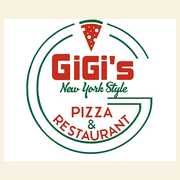
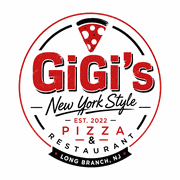
Stop telling Long Branch customers things about their money that aren't true
The last of the Sea Bright fixes, ported back. All four are on the rare paths
that only fire when something has already gone wrong — which is exactly when
being wrong about money costs the most.

The uncertain-payment branch returns paid:false with hand-written copy
PRECISELY because Clover may or may not hold the capture. The confirmation
screen ignored it and asserted "Your payment went through", above a ready
time for food nobody was making. It now shows the server's own words, hides
the ready time when nothing reached the kitchen, and keeps the cart — which
preserves the idempotency key that makes retrying safe. Clearing it forced a
rebuild, and a rebuilt cart mints a new key the replay guard can't match.

A paid_unrouted replay fell through to the plain-duplicate branch and returned
a clean confirmation. Both ladders now treat it like 'charged' and page staff.
They also stop claiming a confirmed capture for it: paid_unrouted can come
from the UNCERTAIN branch, so the message says we couldn't confirm rather than
that the payment went through. All three writers are card-only, so no pickup
order can reach it.

A failed pay-at-pickup POS post wrote status='failed' but never released the
idempotency key, unlike both card paths. reserveOrder is ON CONFLICT DO
NOTHING with no TTL, so one transient Clover blip permanently 409'd that cart
with "This order is already being placed" — which was false.

empty_order returned no message, so the banner rendered the raw key. Not
[…]

diff --git a/api/order/create.ts b/api/order/create.ts
@@ -266,9 +266,21 @@ export default async function handler(req: VercelRequest, res: VercelResponse) {
   // still a draft, so it is in no POS and no ticket printed. Reporting that as a
   // finished order hands the customer a confirmation for food nobody is making,
   // so it takes the routing-issue path and pages staff instead.
-  if (prior?.status === "charged") {
-    await alertStaff(`PAID WEB ORDER NOT FIRED — retry seen for Clover order ${prior.cloverOrderId ?? "?"} charge ${prior.chargeId ?? "?"}; open it in the POS.`);
-    res.status(200).json({ ok: true, orderId: prior.cloverOrderId, paid: true, chargeId: prior.chargeId, routingIssue: true, message: "Your payment went through, but please call the store to confirm your order was received." });
+  if (prior?.status === "charged" || prior?.status === "paid_unrouted") {
+    await alertStaff(`PAID WEB ORDER NOT FIRED — retry seen for Clover order ${prior?.cloverOrderId ?? "?"} charge ${prior?.chargeId ?? "?"}; open it in the POS.`);
+    // "charged" is a confirmed capture. "paid_unrouted" can come from the UNCERTAIN
+    // branch, where Clover may or may not hold the money — so don't assert it went
+    // through. Either way the instruction is the same: call before re-ordering.
+    res.status(200).json({
+      ok: true,
+      orderId: prior?.cloverOrderId,
+      paid: true,
+      chargeId: prior?.chargeId,
+      routingIssue: true,
+      message: prior?.status === "charged"
+        ? "Your payment went through, but please call the store to confirm your order was received."
+        : "We couldn't confirm whether your last attempt went through. Please call the store to check before ordering again, so you aren't charged twice.",
+    });
     return;
   }
   if (prior?.cloverOrderId) {
@@ -342,7 +354,14 @@ export default async function handler(req: VercelRequest, res: VercelResponse) {
   }
   const totals = computeTotals(lines, tipCents, fee, discount);
   if (totals.total <= 0) {
-    res.status(400).json({ error: "empty_order" });
+    // Reachable without an empty cart: a free-pie promo zero-prices the Plain Pie and tax is
+    // computed after the discount, so a cart holding only the free pie totals exactly $0.00.
+    // With no message the client rendered the raw key — the banner read "empty_order".
+    res.status(400).json({
+      error: "empty_order",
+      message:
+        "Your total comes to $0.00 — add anything else to the order, or just come in and pick up your free pie.",
+    });
     return;
   }
   // Marks the code used AFTER the order lands (fired to the kitchen, or paid). Conditional
@@ -394,9 +413,21 @@ export default async function handler(req: VercelRequest, res: VercelResponse) {
     reservedId = reservation.id;
   } else if (reservation.reserved === false) {
     const ex = reservation.existing;
-    if (ex.status === "charged") {
+    if (ex.status === "charged" || ex.status === "paid_unrouted") {
       await alertStaff(`PAID WEB ORDER NOT FIRED — retry seen for Clover order ${ex.cloverOrderId ?? "?"} charge ${ex.chargeId ?? "?"}; open it in the POS.`);
-      res.status(200).json({ ok: true, orderId: ex.cloverOrderId, paid: true, chargeId: ex.chargeId, routingIssue: true, message: "Your payment went through, but please call the store to confirm your order was received." });
+      // "charged" is a confirmed capture. "paid_unrouted" can come from the UNCERTAIN
+      // branch, where Clover may or may not hold the money — so don't assert it went
+      // through. Either way the instruction is the same: call before re-ordering.
+      res.status(200).json({
+        ok: true,
+        orderId: ex.cloverOrderId,
+        paid: true,
+        chargeId: ex.chargeId,
+        routingIssue: true,
+        message: ex.status === "charged"
+          ? "Your payment went through, but please call the store to confirm your order was received."
+          : "We couldn't confirm whether your last attempt went through. Please call the store to check before ordering again, so you aren't charged twice.",
+      });
       return;
     }
     if (ex.cloverOrderId) {
@@ -613,7 +644,14 @@ export default async function handler(req: VercelRequest, res: VercelResponse) {
       res.status(200).json({ ok: true, paid: true, chargeId, routingIssue: true, message: "Your payment went through, but please call the store to confirm your order was received." });
       return;
     }
-    if (reservedId != null) await updateOrder(reservedId, { status: "failed", note });
+    if (reservedId != null) {
+      await updateOrder(reservedId, { status: "failed", note });
+      // Release the key as both card paths do. reserveOrder is ON CONFLICT DO NOTHING with
+      // no TTL and no cleanup job, so without this the dead row blocked every retry of the
+      // same cart forever: a transient Clover blip became a permanent 409 ("already being
+      // placed", which is false). releaseOrder no-ops if a charge or POS order did land.
+      await releaseOrder(reservedId);
+    }
     res.status(502).json({ error: "order_routing_failed", message: "We couldn't send your order to the kitchen. Please call the store to order." });
   }
 }

diff --git a/src/ordering/Checkout.tsx b/src/ordering/Checkout.tsx
@@ -32,7 +32,7 @@ const APPLE_PAY_SHEET_MS = 20_000;
  *  finishes far inside it. It exists only to rescue a connection that stalls with no response. */
 const ORDER_TIMEOUT_MS = 45_000;
 
-type Confirmation = { orderId?: string; paid: boolean; cash: boolean; total: number; discount?: number; fulfillment: Fulfillment; routingIssue?: boolean; units: number; vipEligible?: boolean };
+type Confirmation = { orderId?: string; paid: boolean; cash: boolean; total: number; discount?: number; fulfillment: Fulfillment; routingIssue?: boolean; units: number; vipEligible?: boolean; message?: string };
 
 export function Checkout({ onClose }: { onClose: () => void }) {
   const cart = useCart();
@@ -322,8 +322,14 @@ export function Checkout({ onClose }: { onClose: () => void }) {
         fulfillment,
         routingIssue: data.routingIssue,
         vipEligible: data.vipEligible !== false,
+        // The server hand-writes this when it CANNOT vouch for the payment. Carry it through
+        // and show it verbatim rather than the screen's own cheerier wording.
+        message: typeof data.message === "string" ? data.message : undefined,
       });
-      cart.clear();
+      // Keep the cart when the payment is unconfirmed. Clearing it forces a rebuild, and the
+      // idempotency key is memoized on cart contents — a rebuilt cart mints a new key, so the
+      // server's replay guard can't recognise the retry and the customer really is charged twice.
+      if (!(data.routingIssue && !data.paid)) cart.clear();
     } catch (e) {
       // Retrying after a stall is SAFE and is the right advice: the idempotency key is memoized
       // on the cart contents, and the server replays a prior result ahead of both the charge and
@@ -448,11 +454,15 @@ export function Checkout({ onClose }: { onClose: () => void }) {
               </p>
             )}
           </div>
-          <div className="rounded-2xl border-2 border-[var(--color-brand-red)]/25 bg-[var(--color-brand-red)]/8 px-4 py-3.5">
-            <p className="text-base font-bold text-[var(--color-ink)]">
-              ⏱ {readyMessage(confirmed.units, confirmed.fulfillment)}
-            </p>
-          </div>
+          {/* A routing issue means nothing reached the kitchen, so there is no ready time to
+              promise. Showing one sends the customer in for food nobody started. */}
+          {!confirmed.routingIssue && (
+            <div className="rounded-2xl border-2 border-[var(--color-brand-red)]/25 bg-[var(--color-brand-red)]/8 px-4 py-3.5">
+              <p className="text-base font-bold text-[var(--color-ink)]">
+                ⏱ {readyMessage(confirmed.units, confirmed.fulfillment)}
+              </p>
+            </div>
+          )}
           <div className="rounded-2xl bg-white p-4 text-sm shadow-[var(--shadow-sm)]">
             {confirmed.discount ? (
               <div className="mb-1 flex justify-between"><span className="text-[var(--color-ink-soft)]">VIP free pie</span><span className="font-semibold">−{money(confirmed.discount)}</span></div>
@@ -462,7 +472,12 @@ export function Checkout({ onClose }: { onClose: () => void }) {
           </div>
           {confirmed.routingIssue && (
             <p className="rounded-xl bg-[var(--color-brand-red)]/8 px-4 py-3 text-sm text-[var(--color-ink)]">
-              Your payment went through. Please call <a className="font-semibold text-[var(--color-brand-red)]" href={`tel:${LOCATION.phoneTel}`}>{LOCATION.phone}</a> to confirm we received it.
+              {/* Never assert the payment landed on our own authority: the uncertain-payment
+                  branch returns paid:false precisely because Clover may or may not hold the
+                  capture. Say what the server said, and only fall back when it said nothing. */}
+              {confirmed.message ?? "Your payment went through."} Please call{" "}
+              <a className="font-semibold text-[var(--color-brand-red)]" href={`tel:${LOCATION.phoneTel}`}>{LOCATION.phone}</a>{" "}
+              to confirm we received it.
             </p>
           )}
           {confirmed.vipEligible && (

diff --git a/scripts/build-logo-assets.py b/scripts/build-logo-assets.py
@@ -1,0 +1,179 @@
+#!/usr/bin/env python3
+"""
+Generate every logo asset the site serves from ONE master file.
+
+Why a script: the logo lives in eight places at five sizes (nav, footer srcset, landing-page headers,
+legal pages, breakfast, the iOS icon, and outgoing email). Hand-exporting those is how a rebrand ends
+up half-applied — the 2026-08-07 change from the red/green wordmark to the red/black badge touched all
+of them. Re-run this whenever the master changes; never edit the outputs by hand.
+
+The master is a JPEG on near-white paper. Two things are done to it:
+
+ 1. TRIM to the artwork, so every output has the same framing and no dead margin. The artwork is NOT
+    square (1097x1191) — the "LONG BRANCH, NJ" banner hangs below the circle — so the aspect ratio is
+    preserved everywhere and the width/height attributes in the HTML must match it, or the browser
+    reserves the wrong box and the page shifts as it loads.
+
+ 2. Make the paper OUTSIDE the badge transparent, by flood-filling inward from the border. The white
+    INSIDE the badge is enclosed by the red ring, so it survives — which is the point: the logo has to
+    sit on cream (#faf2e1), on brand red (#9b121a), and on the dark footer without carrying a white
+    box around with it. The previous logo was an opaque white rectangle, which is why
+    public/vip-club/index.html had to round its corners to disguise the plate.
+
+Run: python3 scripts/build-logo-assets.py [path/to/master.jpg]
+"""
+import sys
+from pathlib import Path
+
+from PIL import Image, ImageDraw, ImageFilter
+
+ROOT = Path(__file__).resolve().parents[1]
+MASTER = ROOT / "src" / "assets" / "brand" / "logo-master.png"
+
+# Anything this close to paper white, reachable from the edge, becomes transparent.
+FLOOD_THRESH = 26
+PAD = 12  # even breathing room around the trimmed artwork, in master pixels
+
+# (output path, target WIDTH, opaque?) — heights follow the master's aspect ratio.
+# Widths are ~3x their largest CSS display size so the badge stays crisp on retina without paying
+# for pixels nobody sees: the largest on-page logo is 160px wide (landing-page headers).
+#
+# Every output is QUANTIZED to a 64-colour palette. This is flat vector-style art, so the palette is
+# visually lossless, and it takes logo.png from 203 KB to 15 KB — the un-quantized PNG was heavier
+# than the logo it replaced, and the old one was already flagged as an LCP drag at 152 KB.
+OUTPUTS = [
+    ("src/assets/brand/logo.png", 400, False),  # Nav + Footer import (display 56px tall)
+    ("public/logo.png", 512, False),            # JSON-LD org logo, breakfast, legal pages
+    ("public/logo-sm.png", 320, False),         # landing-page / vip headers (display 64-160px)
+    ("public/logo-email.png", 480, True),       # email clients: no alpha, must be opaque
+]
+
+# Palette size for the quantized outputs.
+PALETTE = 64
+
+# iOS home-screen icon: square, opaque, badge contained with a little inset.
+APPLE_ICON = ("public/apple-touch-icon.png", 180)
+
+
+def load_master(src: Path) -> Image.Image:
+    im = Image.open(src).convert("RGB")
+    px = im.load()
+    w, h = im.size
+
+    # --- trim to the artwork -------------------------------------------------
+    def is_ink(x: int, y: int) -> bool:
+        r, g, b = px[x, y]
+        return (r + g + b) < 720 or (max(r, g, b) - min(r, g, b)) > 25
+
+    xs = [x for x in range(w) if any(is_ink(x, y) for y in range(0, h, 3))]
+    ys = [y for y in range(h) if any(is_ink(x, y) for x in range(0, w, 3))]
+    if not xs or not ys:
+        sys.exit("build-logo-assets: found no artwork in the master — wrong file?")
+    box = (max(0, min(xs) - PAD), max(0, min(ys) - PAD),
+           min(w, max(xs) + 1 + PAD), min(h, max(ys) + 1 + PAD))
+    im = im.crop(box)
+
+    # --- knock out the paper OUTSIDE the badge ------------------------------
+    # NOT a flood fill from the edges: tried that first and it leaked straight through the thin
+    # anti-aliased red ring and erased the badge's white interior (72% of the frame went
+    # transparent). The geometry is knowable instead, so use it.
+    #
+    #   keep = inside the ring's circle  OR  is ink
+    #
+    # The red ring is the outermost RED element, so the bounding box of red pixels IS the circle.
+    # Keeping "ink anywhere" preserves the black LONG BRANCH, NJ banner, whose ribbon ends flare out
+    # past the circle. Everything else — the paper in the four corners — goes.
+    w2, h2 = im.size
+    px2 = im.load()
+
+    def is_red(x: int, y: int) -> bool:
+        r, g, b = px2[x, y]
+        return r > 90 and r - max(g, b) > 45
+
+    rxs = [x for x in range(w2) if any(is_red(x, y) for y in range(0, h2, 2))]
+    rys = [y for y in range(h2) if any(is_red(x, y) for x in range(0, w2, 2))]
+    if not rxs or not rys:
+        sys.exit("build-logo-assets: no red ring found — is this the right logo?")
+    cx = (min(rxs) + max(rxs)) / 2.0
+    cy = (min(rys) + max(rys)) / 2.0
+    radius = ((max(rxs) - min(rxs)) + (max(rys) - min(rys))) / 4.0 + 2
+    print(f"  ring: centre ({cx:.0f},{cy:.0f}) radius {radius:.0f}")
+
+    def is_ink2(x: int, y: int) -> bool:
+        r, g, b = px2[x, y]
+        return (r + g + b) < 700 or (max(r, g, b) - min(r, g, b)) > 28
+
+    mask = Image.new("L", im.size, 0)
+    mpx = mask.load()
+    r2 = radius * radius
+    outside = 0
+    for y in range(h2):
+        dy2 = (y - cy) ** 2
+        for x in range(w2):
+            if (x - cx) ** 2 + dy2 <= r2 or is_ink2(x, y):
+                mpx[x, y] = 255
+            else:
+                outside += 1
+    # Soften the cut by a hair so the circle's edge isn't jagged.
+    mask = mask.filter(ImageFilter.GaussianBlur(0.6))
+
+    out = im.convert("RGBA")
+    out.putalpha(mask)
+
+    pct = 100.0 * outside / (w2 * h2)
+    print(f"  trimmed to {w2}x{h2} (aspect {w2 / h2:.4f}); {pct:.1f}% made transparent")
+    # Sanity: the four corners left over by a circle inscribed in a square are 1 - pi/4 = 21.5% of
+    # the frame, less whatever the banner overhang claims back. Far outside that band means the ring
+    # was mis-detected — refuse rather than ship a logo with its middle punched out.
+    if not (8.0 < pct < 32.0):
+        sys.exit(f"build-logo-assets: {pct:.1f}% transparent is implausible — refusing to write assets")
+    return out
+
+
+def main() -> None:
+    src = Path(sys.argv[1]) if len(sys.argv) > 1 else MASTER
+    if not src.exists():
+        sys.exit(f"build-logo-assets: master not found at {src}")
+    print(f"master: {src}")
+    logo = load_master(src)
+    aspect = logo.size[1] / logo.size[0]
+
+    # Keep a lossless master in the repo so this is re-runnable without the original JPEG.
+    if src != MASTER:
+        MASTER.parent.mkdir(parents=True, exist_ok=True)
+        logo.save(MASTER, "PNG", optimize=True)
+        print(f"  wrote master → {MASTER.relative_to(ROOT)}")
+
+    for rel, width, opaque in OUTPUTS:
+        height = round(width * aspect)
+        im = logo.resize((width, height), Image.LANCZOS)
+        if opaque:
+            flat = Image.new("RGB", im.size, (255, 255, 255))
+            flat.paste(im, mask=im.split()[3])
+            im = flat
+        # FASTOCTREE is the only PIL quantizer that keeps an alpha channel.
+        im = im.quantize(colors=PALETTE, method=Image.FASTOCTREE, dither=Image.NONE)
+        p = ROOT / rel
+        p.parent.mkdir(parents=True, exist_ok=True)
+        im.save(p, "PNG", optimize=True)
+        print(f"  {rel:38} {width}x{height}  {p.stat().st_size // 1024} KB")
+
+    # iOS icon — square canvas, opaque white, badge contained with an inset.
+    rel, size = APPLE_ICON
+    inset = round(size * 0.06)
+    fit = size - inset * 2
+    scale = min(fit / logo.size[0], fit / logo.size[1])
+    badge = logo.resize((max(1, round(logo.size[0] * scale)), max(1, round(logo.size[1] * scale))), Image.LANCZOS)
+    canvas = Image.new("RGB", (size, size), (255, 255, 255))
+    canvas.paste(badge, ((size - badge.size[0]) // 2, (size - badge.size[1]) // 2), badge)
+    canvas = canvas.quantize(colors=PALETTE, method=Image.FASTOCTREE, dither=Image.NONE)
+    p = ROOT / rel
+    canvas.save(p, "PNG", optimize=True)
+    print(f"  {rel:38} {size}x{size}  {p.stat().st_size // 1024} KB (opaque, iOS)")
+
+    print(f"\nHTML/JSX width+height attributes must use aspect {logo.size[0]}:{logo.size[1]} "
+          f"({1 / aspect:.4f}) — e.g. width 145 → height {round(145 * aspect)}")
+
+
+if __name__ == "__main__":
+    main()
